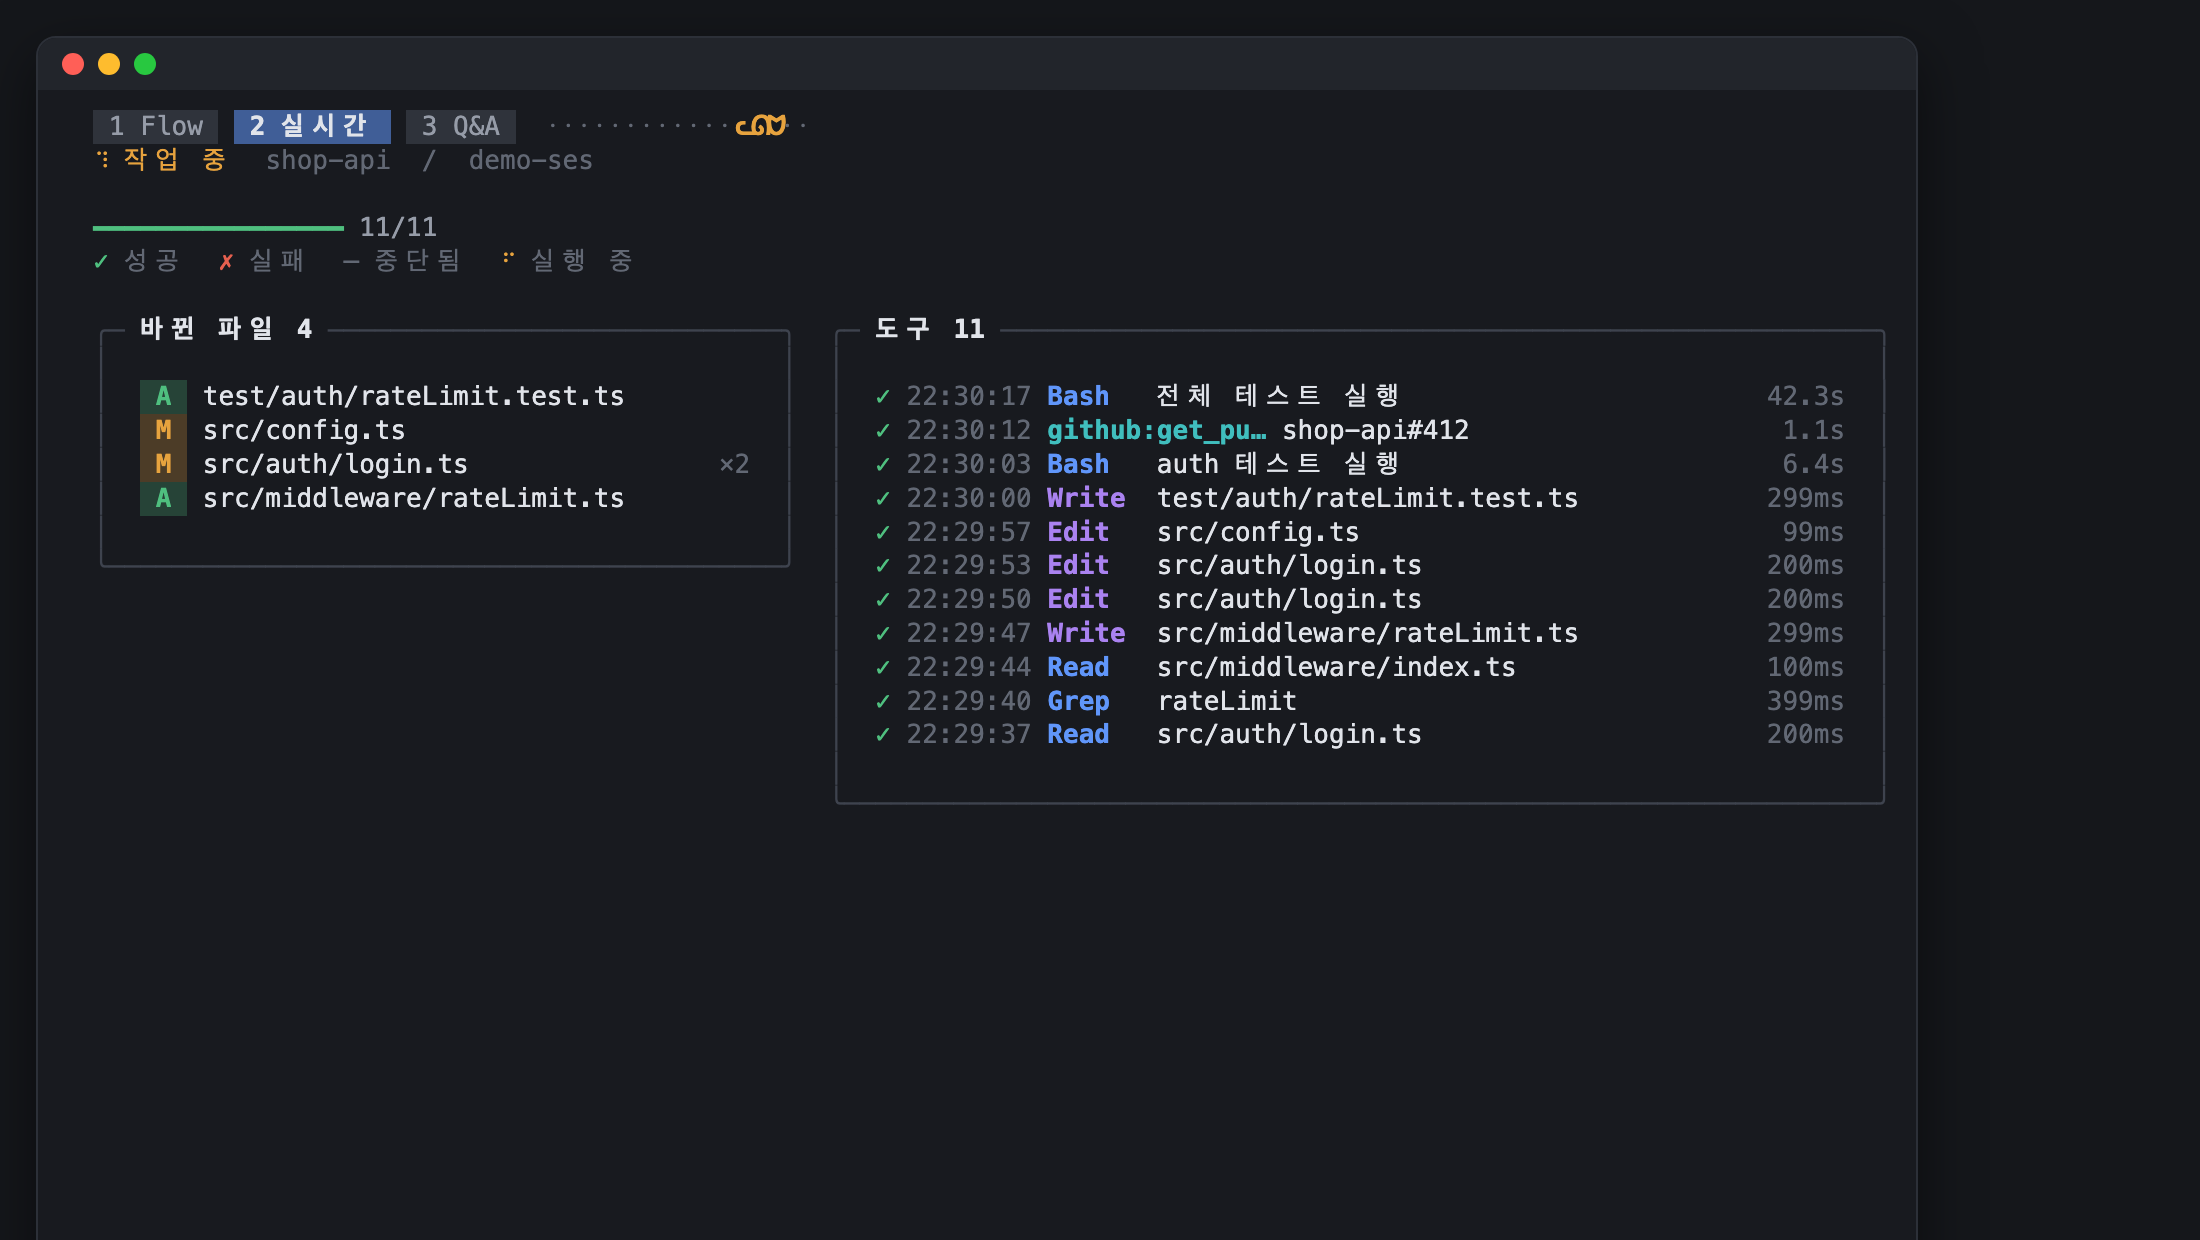
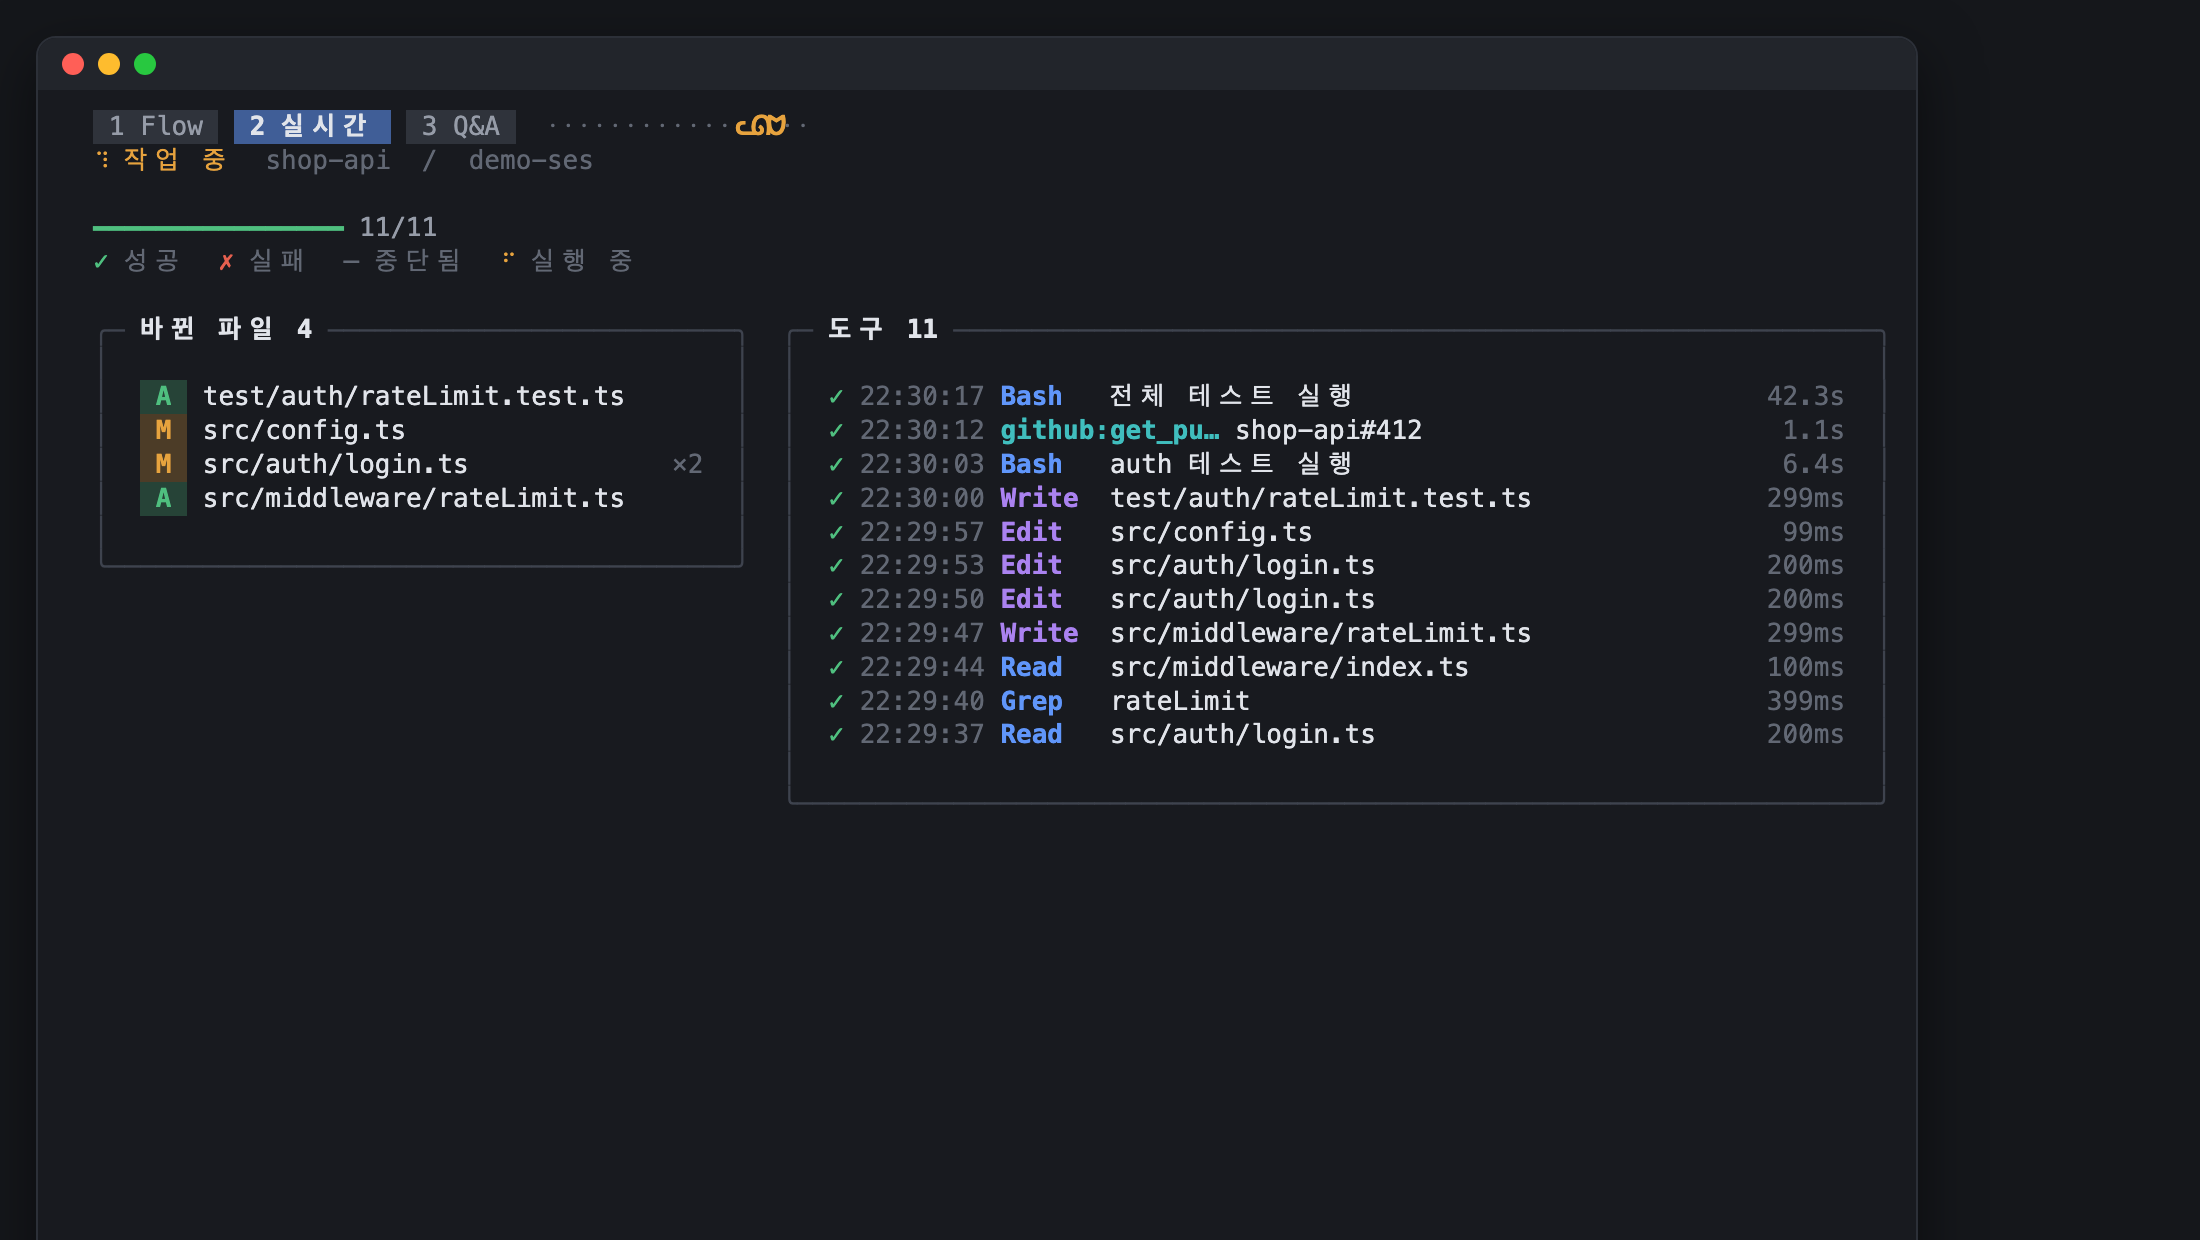
Terminal panel: flow tab row and progress bars always fit; recaptured terminal screenshots
Claude-Session: https://claude.ai/code/session_0121ovcFUkEhWW55jjw4PbtV

Changed region(s): [[0.3709, 0.3065, 0.7109, 0.6129], [0.3709, 0.2452, 0.4636, 0.2758], [0.3091, 0.3677, 0.34, 0.3984]]

diff --git a/src/side_insights/live/views.py b/src/side_insights/live/views.py
@@ -131,8 +131,9 @@ def live_lines(st, tick, cols, rows):
     tools = list(st.tools.values())
     done = sum(1 for tool in tools if tool["state"] in (OK, ERR))
     failed = sum(1 for tool in tools if tool["state"] == ERR)
-    lines = [f"{progress(done, len(tools), GREEN if not failed else ORANGE)} {paint(f'{done}/{len(tools)}', MUTED)}"
-             + (f"  {paint(f'✗ {failed}', RED)}" if failed else ""), _legend(pane, cols), ""]
+    counts = paint(f"{done}/{len(tools)}", MUTED) + (f"  {paint(f'✗ {failed}', RED)}" if failed else "")
+    bar = progress(done, len(tools), GREEN if not failed else ORANGE, max(4, min(BAR, cols - visible_width(counts) - 1)))
+    lines = [f"{bar} {counts}", _legend(pane, cols), ""]
     wide = cols >= WIDE_COLS
     files_w, tools_w = _split(cols) if wide else (cols, cols)
     file_lines = [paint(t("term_none", pane=pane), FAINT)] if not files else []
@@ -287,20 +288,20 @@ def _flow_cards(st, rec, flow, tick, cols):
 
 
 def _flow_tabs(records, index, cols):
-    """One pill per flow, newest first; the selected one stays in view when they do not all fit."""
-    pills = [paint(f" {fit(rec.get('flow', {}).get('title') or rec.get('prompt') or '-', 24).rstrip()} {clock(rec.get('ts'))} ",
+    """One pill per flow, newest first; a window around the selected one when they do not all fit."""
+    budget = cols - 6
+    title_w = max(4, min(24, cols - 16))
+    pills = [paint(f" {fit(rec.get('flow', {}).get('title') or rec.get('prompt') or '-', title_w).rstrip()} {clock(rec.get('ts'))} ",
                    TEXT if i == index else MUTED, tint(BLUE, 0.55) if i == index else tint(LINE, 0.6), bold=i == index)
              for i, rec in enumerate(records)]
-    start = index
-    while start > 0 and visible_width(" ".join(pills[start - 1:index + 1])) <= cols:
-        start -= 1
-    shown = []
-    for pill in pills[start:]:
-        if visible_width(" ".join(shown + [pill])) > cols - 4:
-            break
-        shown.append(pill)
-    more = paint(f" +{len(pills) - start - len(shown)}", FAINT) if start + len(shown) < len(pills) else ""
-    return (paint("‹ ", FAINT) if start else "") + " ".join(shown or [pills[index]]) + more
+    first = last = index
+    while first > 0 and visible_width(" ".join(pills[first - 1:last + 1])) <= budget:
+        first -= 1
+    while last + 1 < len(pills) and visible_width(" ".join(pills[first:last + 2])) <= budget:
+        last += 1
+    line = (paint("‹ ", FAINT) if first else "") + " ".join(pills[first:last + 1]) \
+        + (paint(f" +{len(pills) - last - 1}", FAINT) if last + 1 < len(pills) else "")
+    return line if visible_width(line) <= cols else pills[index]
 
 
 def flow_lines(st, flow_index, step, tick, cols):
